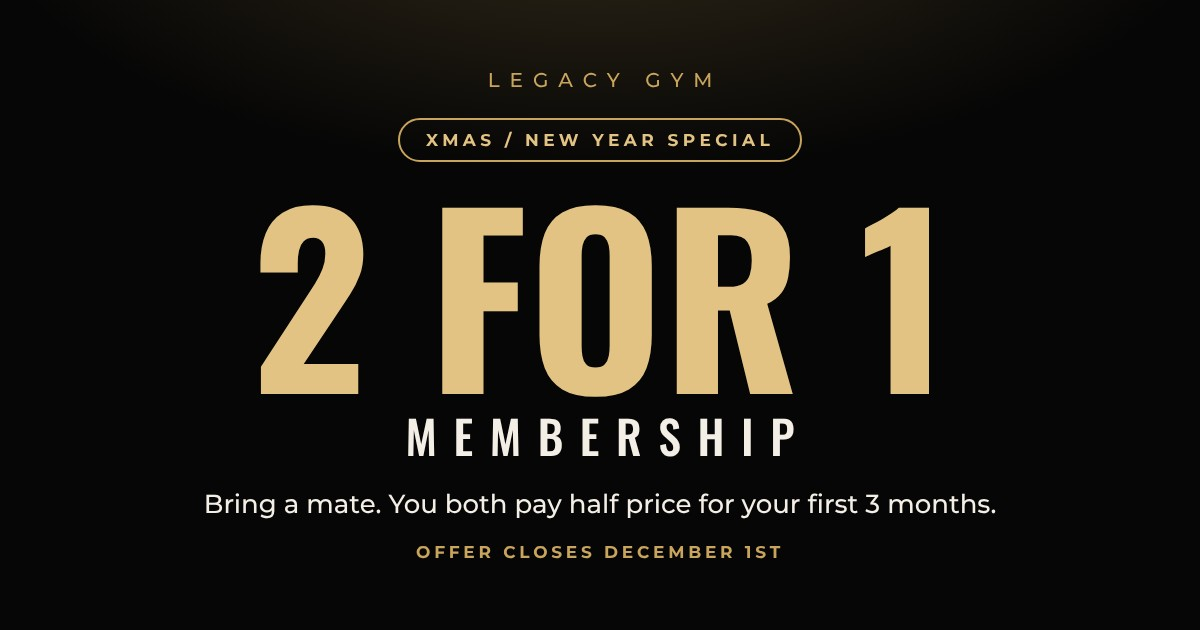
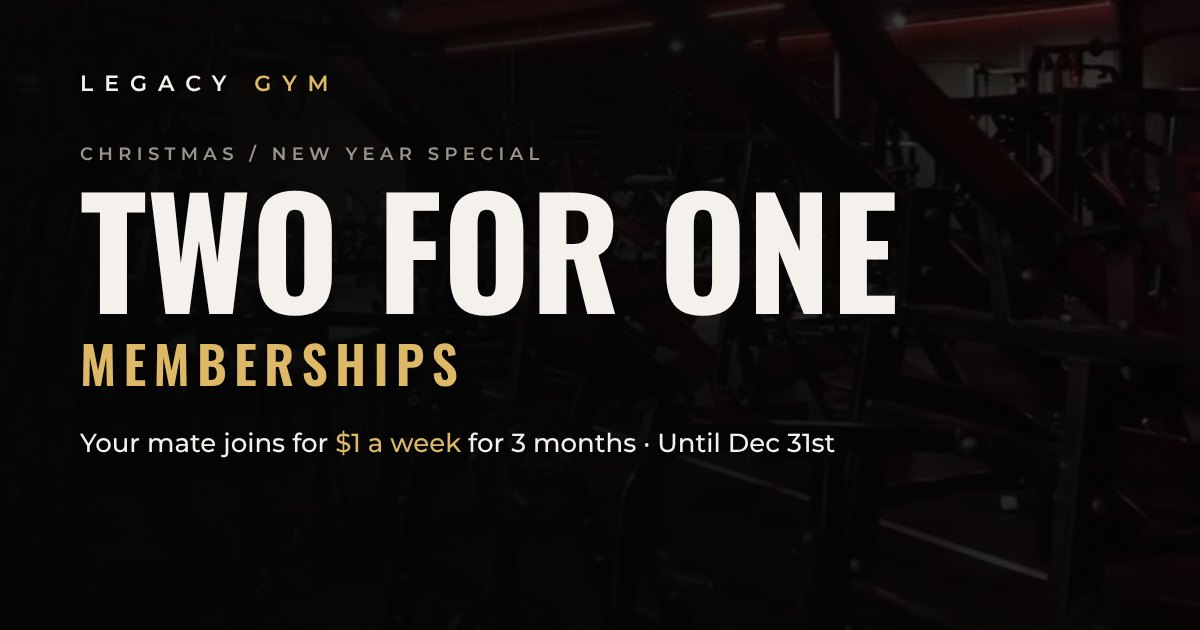
2 for 1: Christmas/New Year version, mate $1/wk for 3 months, open to 31 Dec

diff --git a/2for1.html b/2for1.html
@@ -3,11 +3,11 @@
 <head>
 <meta charset="utf-8">
 <meta name="viewport" content="width=device-width,initial-scale=1,viewport-fit=cover">
-<meta name="theme-color" content="#060606">
-<title>2 for 1 Membership · Xmas / New Year special · Legacy Gym</title>
-<meta name="description" content="Bring a mate. You both pay half price for your first 3 months at Legacy Gym Kincumber. Offer closes December 1st.">
-<meta property="og:title" content="2 for 1 Membership · Xmas / New Year special">
-<meta property="og:description" content="Bring a mate. You both pay half price for your first 3 months at Legacy Gym Kincumber. Offer closes December 1st.">
+<meta name="theme-color" content="#050505">
+<title>2 for 1 Memberships · Christmas / New Year special · Legacy Gym</title>
+<meta name="description" content="Two for one memberships at Legacy Gym Kincumber. Any membership of your choice. Your mate joins on the same one for $1 a week for their first 3 months. Available until December 31st.">
+<meta property="og:title" content="2 for 1 Memberships · Legacy Gym">
+<meta property="og:description" content="Any membership of your choice. Your mate joins for $1 a week for their first 3 months. Available until December 31st.">
 <meta property="og:image" content="https://legacygym-app.vercel.app/2for1-og.jpg">
 <meta property="og:type" content="website">
 <meta name="twitter:card" content="summary_large_image">
@@ -15,124 +15,177 @@
 <link rel="preconnect" href="https://fonts.googleapis.com"><link rel="preconnect" href="https://fonts.gstatic.com" crossorigin>
 <link rel="stylesheet" href="https://fonts.googleapis.com/css2?family=Montserrat:wght@400;500;600;700&family=Oswald:wght@500;600;700&display=swap">
 <style>
-:root{--bg:#060606;--p:#0f0f10;--p2:#161617;--l:#242426;--l2:#37373a;--fg:#f4efe6;--mid:#cfc8bb;--m:#948e83;--gold:#c9a45c;--gold2:#e2c383;
+:root{--bg:#050505;--ink:#f4f1ec;--mid:#c9c4bb;--m:#8a857d;--l:#1f1f1f;--l2:#2e2e2e;--gold:#c9a24f;--gold2:#dcb867;
 --disp:'Oswald','Arial Narrow',Impact,sans-serif;--body:'Montserrat',system-ui,-apple-system,'Segoe UI',sans-serif;color-scheme:dark}
 *{box-sizing:border-box}
 html{background:var(--bg)}
-body{margin:0;background:radial-gradient(720px 360px at 50% -110px,rgba(201,164,92,.17),transparent 70%),var(--bg);color:var(--mid);font-family:var(--body);font-size:15px;line-height:1.55;-webkit-font-smoothing:antialiased;overflow-x:hidden}
+body{margin:0;background:var(--bg);color:var(--mid);font-family:var(--body);font-size:15px;line-height:1.6;-webkit-font-smoothing:antialiased;overflow-x:hidden}
 button,input{font:inherit;color:inherit}
 button{cursor:pointer;-webkit-tap-highlight-color:transparent}
 a{color:inherit}
-:focus-visible{outline:2px solid var(--gold2);outline-offset:2px}
-h1,h2,h3{font-family:var(--disp);color:var(--fg);text-transform:uppercase;margin:0;line-height:1;letter-spacing:.02em;font-weight:600;text-wrap:balance}
-.wrap{max-width:600px;margin:0 auto;padding:max(22px,env(safe-area-inset-top)) max(16px,env(safe-area-inset-right)) 48px max(16px,env(safe-area-inset-left))}
-.brand{text-align:center;font-weight:500;font-size:13px;letter-spacing:.46em;text-transform:uppercase;color:var(--gold);padding-left:.46em}
-.hero{text-align:center;padding:30px 0 0}
-.special{display:inline-block;border:1px solid var(--gold);border-radius:99px;padding:7px 16px;font-size:11.5px;font-weight:700;letter-spacing:.24em;text-transform:uppercase;color:var(--gold2)}
-.hero h1{font-size:clamp(92px,27vw,164px);font-weight:700;line-height:.86;margin-top:20px;color:var(--gold2);letter-spacing:0}
-.hero h1 small{display:block;font-size:.2em;letter-spacing:.34em;color:var(--fg);font-weight:500;margin-top:.5em;padding-left:.34em}
-.lede{font-size:clamp(16px,4.2vw,19px);color:var(--fg);max-width:24em;margin:22px auto 0;text-wrap:balance}
-.cta{display:inline-block;border:0;border-radius:12px;background:linear-gradient(180deg,var(--gold2),var(--gold));color:#17130a;font-family:var(--disp);font-weight:600;font-size:19px;letter-spacing:.08em;text-transform:uppercase;padding:15px 32px;margin-top:24px;min-height:54px}
-.cta[disabled]{opacity:.6;cursor:default}
-.closes{margin-top:16px;font-size:12px;font-weight:700;letter-spacing:.2em;text-transform:uppercase;color:var(--fg)}
-.closes span{display:block;color:var(--gold2);margin-top:5px}
-.sec{margin-top:52px}
-.sec h2{font-size:clamp(26px,6.6vw,34px)}
-.sec>p{margin:8px 0 0}
-.how{list-style:none;margin:20px 0 0;padding:0;display:grid;gap:12px;counter-reset:s}
-.how li{display:grid;grid-template-columns:auto 1fr;gap:12px;align-items:baseline;font-size:15px}
-.how li::before{counter-increment:s;content:counter(s);font-family:var(--disp);font-weight:600;font-size:20px;line-height:1;color:var(--gold2);width:14px}
-.how b{color:var(--fg)}
-.prices{display:grid;gap:8px;margin-top:16px}
-.price{display:grid;grid-template-columns:1fr auto;gap:14px;align-items:center;background:var(--p);border:1px solid var(--l);border-radius:12px;padding:12px 14px}
-.price b{display:block;font-size:14px;color:var(--fg);line-height:1.25}
-.price small{display:block;font-size:11.5px;line-height:1.4;color:var(--m);margin-top:3px}
-.price .pr{text-align:right;font-family:var(--disp);font-weight:600;font-size:24px;color:var(--gold2);line-height:1;font-variant-numeric:tabular-nums;white-space:nowrap}
-.price .pr small{font:600 10.5px var(--body);margin-top:4px}
-.card{background:var(--p);border:1px solid var(--l2);border-radius:18px;padding:18px;margin-top:18px}
-.who{font-family:var(--disp);font-weight:600;font-size:17px;letter-spacing:.06em;text-transform:uppercase;color:var(--fg)}
+:focus-visible{outline:2px solid var(--gold2);outline-offset:3px}
+h1,h2{font-family:var(--disp);color:var(--ink);text-transform:uppercase;margin:0;line-height:.95;font-weight:700;letter-spacing:.01em;text-wrap:balance}
+.lbl{font-size:11px;font-weight:600;letter-spacing:.32em;text-transform:uppercase;color:var(--m)}
+.gold{color:var(--gold2)}
+.wrap{max-width:560px;margin:0 auto;padding:0 max(20px,env(safe-area-inset-right)) 56px max(20px,env(safe-area-inset-left))}
+
+/* hero */
+.hero{position:relative;text-align:center;padding:max(26px,env(safe-area-inset-top)) 20px 44px;overflow:hidden;isolation:isolate}
+.hero::before{content:"";position:absolute;inset:0;z-index:-2;background:url("/img/2for1/hero.jpg") center 62%/cover no-repeat;opacity:.5}
+.hero::after{content:"";position:absolute;inset:0;z-index:-1;background:linear-gradient(180deg,rgba(5,5,5,.92) 0%,rgba(5,5,5,.45) 38%,rgba(5,5,5,.7) 70%,var(--bg) 100%)}
+.brand{font-weight:600;font-size:13px;letter-spacing:.5em;padding-left:.5em;color:var(--ink)}
+.brand span{color:var(--gold2)}
+.eyebrow{margin-top:44px}
+.hero h1{font-size:clamp(68px,21vw,124px);margin-top:14px;line-height:.86}
+.hero h1 small{display:block;font-size:.34em;letter-spacing:.14em;padding-left:.14em;color:var(--gold2);font-weight:600;margin-top:.28em}
+.lede{font-size:clamp(16px,4.3vw,19px);line-height:1.5;color:var(--ink);max-width:23em;margin:22px auto 0;text-wrap:balance}
+.cta{display:inline-flex;align-items:center;justify-content:center;border:0;border-radius:4px;background:var(--gold2);color:#120f08;font-family:var(--disp);font-weight:600;font-size:18px;letter-spacing:.14em;text-transform:uppercase;padding:15px 34px;min-height:54px;text-decoration:none}
+.cta:hover{background:#e6c57a}
+.cta[disabled]{opacity:.55;cursor:default}
+.hero .cta{margin-top:28px}
+.until{margin-top:16px}
+.until b{display:block;font-weight:600;color:var(--gold2);letter-spacing:.28em;margin-top:6px}
+
+/* sections */
+.sec{margin-top:56px}
+.sec h2{font-size:clamp(28px,7.4vw,38px)}
+.sec .lbl{display:block;margin-bottom:10px}
+.steps{list-style:none;margin:18px 0 0;padding:0;counter-reset:s}
+.steps li{display:grid;grid-template-columns:44px 1fr;gap:4px;padding:18px 0;border-top:1px solid var(--l)}
+.steps li:last-child{border-bottom:1px solid var(--l)}
+.steps li::before{counter-increment:s;content:"0" counter(s);font-family:var(--disp);font-weight:600;font-size:22px;line-height:1.1;color:var(--gold2)}
+.steps b{display:block;font-family:var(--disp);font-weight:600;font-size:19px;letter-spacing:.03em;text-transform:uppercase;color:var(--ink);line-height:1.2;margin-bottom:4px}
+
+.plans{margin-top:18px;border-top:1px solid var(--l)}
+.plan{display:grid;grid-template-columns:1fr auto;gap:4px 16px;align-items:baseline;width:100%;text-align:left;background:none;border:0;border-bottom:1px solid var(--l);padding:18px 4px 18px 0}
+.plan .n{font-family:var(--disp);font-weight:600;font-size:21px;letter-spacing:.02em;text-transform:uppercase;color:var(--ink);line-height:1.15}
+.plan .p{font-family:var(--disp);font-weight:600;font-size:21px;color:var(--ink);white-space:nowrap;font-variant-numeric:tabular-nums;text-align:right}
+.plan .d{font-size:13px;color:var(--m);line-height:1.45}
+.plan .m{font-size:12.5px;color:var(--mid);text-align:right;white-space:nowrap}
+.plan .s{grid-column:1/-1;margin-top:6px;font-size:11.5px;font-weight:700;letter-spacing:.2em;text-transform:uppercase;color:var(--gold2)}
+button.plan{cursor:pointer;padding-left:14px;border-left:3px solid transparent;transition:background .15s}
+button.plan:hover{background:#0c0c0c}
+button.plan.on{border-left-color:var(--gold2);background:#0e0d0a}
+
+/* form */
+.form{margin-top:8px}
+.who{font-family:var(--disp);font-weight:600;font-size:19px;letter-spacing:.06em;text-transform:uppercase;color:var(--ink);margin-top:30px}
 .g2{display:grid;grid-template-columns:1fr 1fr;gap:0 12px}
-label.f,.f{display:block;font-size:10.5px;font-weight:700;letter-spacing:.18em;text-transform:uppercase;color:var(--m);margin:12px 0 5px}
-.card input{width:100%;background:var(--bg);border:1px solid var(--l2);border-radius:12px;padding:12px 13px;font-size:16px;color:var(--fg);min-height:48px}
+label.f,.f{display:block;font-size:10.5px;font-weight:600;letter-spacing:.24em;text-transform:uppercase;color:var(--m);margin:14px 0 6px}
+.form input{width:100%;background:#0b0b0b;border:1px solid var(--l2);border-radius:4px;padding:12px 13px;font-size:16px;color:var(--ink);min-height:48px}
+.form input:focus{border-color:var(--gold)}
 .age{display:grid;grid-template-columns:1fr 1fr;gap:8px}
-.age button{background:var(--bg);border:1px solid var(--l2);border-radius:12px;min-height:48px;font-weight:700;font-size:15px;color:var(--mid)}
-.age button.on{border-color:var(--gold);background:var(--gold);color:#17130a}
-.rule{border:0;border-top:1px solid var(--l);margin:22px 0 18px}
-.card .cta{width:100%;margin-top:20px}
-.err{color:#ff8f8f;font-size:14px;font-weight:600;margin-top:10px}
+.age button{background:#0b0b0b;border:1px solid var(--l2);border-radius:4px;min-height:48px;font-weight:600;letter-spacing:.08em;color:var(--mid)}
+.age button.on{border-color:var(--gold2);background:var(--gold2);color:#120f08}
+.picked{margin-top:30px;padding:16px 0;border-top:1px solid var(--l);border-bottom:1px solid var(--l);display:grid;grid-template-columns:1fr auto;gap:4px 12px;align-items:baseline}
+.picked .n{font-family:var(--disp);font-weight:600;font-size:19px;text-transform:uppercase;color:var(--ink)}
+.picked .x{font-size:12px;color:var(--gold2);background:none;border:0;letter-spacing:.16em;text-transform:uppercase;font-weight:600;padding:0}
+.picked small{grid-column:1/-1;color:var(--m);font-size:13px}
+.form .cta{width:100%;margin-top:26px}
+.err{color:#ff9a8f;font-size:14px;font-weight:600;margin-top:12px}
 .err:empty{display:none}
-.done{text-align:center;padding:14px 4px}
-.done .tick{width:64px;height:64px;border-radius:50%;margin:0 auto 14px;display:grid;place-items:center;font-size:28px;color:#17130a;background:linear-gradient(180deg,var(--gold2),var(--gold))}
-.done h3{font-size:30px}
-.fine{margin:22px 0 0;padding:0 2px;font-size:12.5px;color:var(--m)}
-.foot{margin-top:40px;padding-top:18px;border-top:1px solid var(--l);font-size:12px;color:var(--m);text-align:center}
+.done{padding:6px 0 0}
+.done h2{font-size:clamp(30px,8vw,40px)}
+.done ol{list-style:none;margin:18px 0 0;padding:0}
+.done li{padding:16px 0;border-top:1px solid var(--l)}
+.done li:last-child{border-bottom:1px solid var(--l)}
+.done li b{display:block;font-family:var(--disp);font-weight:600;font-size:18px;text-transform:uppercase;color:var(--ink);letter-spacing:.03em}
+.done .cta{width:100%;margin-top:22px}
+.fine{margin:30px 0 0;font-size:12.5px;line-height:1.6;color:var(--m)}
+.foot{margin-top:44px;padding-top:20px;border-top:1px solid var(--l);text-align:center}
+.foot .brand{font-size:11px}
+.foot p{margin:8px 0 0;font-size:12px;color:var(--m)}
+
 @media (max-width:420px){.g2{grid-template-columns:1fr}}
 @media (prefers-reduced-motion:reduce){*{transition:none!important;scroll-behavior:auto!important}}
 </style>
 </head>
 <body>
-<div class="wrap" id="view"></div>
-<noscript><div class="wrap"><p>2 for 1 Membership at Legacy Gym Kincumber. Call in to the gym to sign up.</p></div></noscript>
+<div id="view"></div>
+<noscript><div class="wrap"><p>2 for 1 Memberships at Legacy Gym Kincumber. Call in to the gym to sign up.</p></div></noscript>
 <script>
 (()=>{
+const DEMO=false;
 const $=s=>document.querySelector(s);
 const E=s=>String(s??'').replace(/[&<>"']/g,c=>({'&':'&amp;','<':'&lt;','>':'&gt;','"':'&quot;',"'":'&#39;'}[c]));
 const money=n=>{n=Math.round(n*100)/100;return '$'+n.toLocaleString('en-AU',{minimumFractionDigits:n%1?2:0,maximumFractionDigits:2})};
 const SB='https://jyslqxepodrseyhoppce.supabase.co',KEY='sb_publishable_otcHJ5LC4yf-69CAoZghZA_yk_8h_we';
-/* weekly prices from legacygym.net; half price for the first 3 months */
-const PLANS=[{n:'Gym Membership',d:'Unlimited swipe pass access to the entire gym',p:19.99,h:9.99},{n:'Gym + S&C',d:'S&C classes plus swipe pass access to the gym',p:45,h:22.5},{n:'Unlimited Classes + Gym',d:'Unlimited classes plus unlimited swipe pass access to the gym',p:55,h:27.5},{n:'Classes + Sparring + Gym',d:'Unlimited sparring plus classes plus swipe pass access to the gym',p:65,h:32.5}];
-const CLOSE='2026-12-01';
-function daysLeft(){let t;try{t=new Date().toLocaleDateString('en-CA',{timeZone:'Australia/Sydney'})}catch(e){t=new Date().toISOString().slice(0,10)}return Math.round((Date.parse(CLOSE)-Date.parse(t))/864e5)}
-const U={done:null,f:{},over18:null,busy:false};
+const DS='https://oc.debitsuccess.com/DirectEntry/DirectDebitRequest/Form?templateid=';
+/* weekly prices and DebitSuccess join forms from legacygym.net */
+const PLANS=[
+ {id:'gym',n:'Gym Membership',d:'Unlimited swipe pass access to the whole gym.',p:19.99,t:'5b74ba91-75aa-4402-80c0-95e23a699b4b'},
+ {id:'snc',n:'Gym + S&C',d:'Grunt S&C classes plus swipe pass access to the gym.',p:45,t:'0d2c0a1c-430f-4b05-a6ff-b886063c63dd'},
+ {id:'classes',n:'Unlimited Classes + Gym',d:'Every boxing and S&C class, plus the gym.',p:55,t:'9646131e-a07f-4f53-868c-542e463c8b2a'},
+ {id:'spar',n:'Classes + Sparring + Gym',d:'Everything, plus sparring.',p:65,t:'0a0f1460-273e-4622-bdb2-79ffba02a95f'}];
+const WEEKS=13,MATE=1,saves=p=>(p-MATE)*WEEKS;
+const CLOSE='2026-12-31';
+function today(){try{return new Date().toLocaleDateString('en-CA',{timeZone:'Australia/Sydney'})}catch(e){return new Date().toISOString().slice(0,10)}}
+function daysLeft(){return Math.round((Date.parse(CLOSE)-Date.parse(today()))/864e5)}
+const U={done:null,f:{},over18:null,plan:null,busy:false};
 function keep(){['a1','a2','a3','b1','b2'].forEach(k=>{const i=$('#'+k);if(i)U.f[k]=i.value})}
 async function rpc(fn,args){const r=await fetch(SB+'/rest/v1/rpc/'+fn,{method:'POST',headers:{apikey:KEY,Authorization:'Bearer '+KEY,'content-type':'application/json'},body:JSON.stringify(args||{})});const j=await r.json().catch(()=>null);if(!r.ok)throw new Error((j&&j.message)||'failed');return j}
 
+function planRows(pick){return PLANS.map((x,i)=>{const inner=`<span class="n">${E(x.n)}</span><span class="p">${money(x.p)}<span style="font-size:.6em;color:var(--m)"> /wk</span></span>
+  <span class="d">${E(x.d)}</span><span class="m">Your mate $1/wk</span>
+  <span class="s">You guys save ${money(saves(x.p))}</span>`;
+ return pick?`<button type="button" class="plan${U.plan===i?' on':''}" data-a="plan" data-v="${i}" aria-pressed="${U.plan===i}">${inner}</button>`:`<div class="plan">${inner}</div>`}).join('')}
+
+function formHtml(){const P=PLANS[U.plan];
+ if(U.plan===null)return `<span class="lbl">Step 1</span><h2>Pick your membership</h2><p style="margin:10px 0 0">Your mate goes on the same one.</p><div class="plans">${planRows(true)}</div>`;
+ return `<span class="lbl">Step 2</span><h2>Your details</h2>
+ <div class="picked"><span class="n">${E(P.n)}</span><button type="button" class="x" data-a="change">Change</button><small>You ${money(P.p)} a week. Your mate $1 a week for 3 months. You guys save ${money(saves(P.p))}.</small></div>
+ <form class="form" id="f" novalidate>
+  <div class="who">You</div>
+  <label class="f" for="a1">Full name</label><input id="a1" type="text" autocomplete="name" maxlength="80" value="${E(U.f.a1||'')}">
+  <div class="g2"><div><label class="f" for="a2">Mobile</label><input id="a2" type="tel" inputmode="tel" autocomplete="tel" maxlength="20" value="${E(U.f.a2||'')}"></div>
+  <div><label class="f" for="a3">Email</label><input id="a3" type="email" inputmode="email" autocomplete="email" maxlength="120" value="${E(U.f.a3||'')}"></div></div>
+  <div class="f" id="ageL">Are you both over 18?</div>
+  <div class="age" role="group" aria-labelledby="ageL"><button type="button" data-a="age" data-v="yes" class="${U.over18===true?'on':''}" aria-pressed="${U.over18===true}">Yes</button><button type="button" data-a="age" data-v="no" class="${U.over18===false?'on':''}" aria-pressed="${U.over18===false}">No</button></div>
+  <div class="who">Your mate</div>
+  <div class="g2"><div><label class="f" for="b1">Their name</label><input id="b1" type="text" maxlength="80" autocomplete="off" value="${E(U.f.b1||'')}"></div>
+  <div><label class="f" for="b2">Their mobile</label><input id="b2" type="tel" inputmode="tel" maxlength="20" autocomplete="off" value="${E(U.f.b2||'')}"></div></div>
+  <button class="cta" id="send">Continue to sign up</button><div class="err" id="err" role="alert">${U.over18===false?MSG.under18:''}</div>
+ </form>`}
+
+function doneHtml(){const d=U.done,P=PLANS[d.i];
+ return `<span class="lbl">Step 3</span><h2>Sign up now, ${E(d.a)}</h2>
+ <ol>
+  <li><b>You: sign up today</b>Your ${E(P.n)} membership at ${money(P.p)} a week. It takes a couple of minutes.</li>
+  <li><b>Then ${E(d.b)} comes in</b>Once your membership is through, we'll text you both to book ${E(d.b)} in to sign their $1 a week agreement at the gym.</li>
+ </ol>
+ <a class="cta" href="${DS+P.t}" target="_blank" rel="noopener">Sign up for ${E(P.n)}</a>
+ ${DEMO?'<p class="fine" style="margin-top:12px">Demo: your details were not saved.</p>':''}`}
+
 function page(){const d=daysLeft(),open=d>=0;
  const left=d>1?d+' days left':d===1?'1 day left':d===0?'Last day today':'';
- return `<div class="brand">Legacy Gym</div>
+ return `${DEMO?'<div class="demo">Demo. Nothing on this page is saved.</div>':''}
  <header class="hero">
-  <div class="special">Xmas / New Year special</div>
-  <h1>2 for 1<small>Membership</small></h1>
-  <p class="lede">Bring a mate. You both pay half price for your first 3 months.</p>
-  ${open?`<button class="cta" data-a="go">Claim 2 for 1</button>
-  <div class="closes">Offer closes December 1st${left?`<span>${left}</span>`:''}</div>`:`<div class="closes" style="margin-top:26px">This offer closed on December 1st</div>`}
+  <div class="brand">LEGACY <span>GYM</span></div>
+  <div class="lbl eyebrow">Christmas / New Year special</div>
+  <h1>Two for one<small>Memberships</small></h1>
+  <p class="lede">Any membership of your choice. Your mate joins on the same one for <span class="gold">$1 a week</span> for their first 3 months.</p>
+  ${open?`<button class="cta" data-a="go">Claim 2 for 1</button><div class="lbl until">Available until December 31st${left?`<b>${left}</b>`:''}</div>`:`<div class="lbl until" style="margin-top:26px">This offer closed on December 31st</div>`}
  </header>
-
- <section class="sec"><h2>How it works</h2>
-  <ol class="how">
-   <li><span><b>Put both names down.</b> Fill in the form below.</span></li>
-   <li><span><b>We contact you.</b> Then you and your friend come into the gym and we sign you both up.</span></li>
-   <li><span><b>Half price each for 3 months.</b> Then you both move to the normal price for 9 months.</span></li>
+ <main class="wrap">
+ <section class="sec" style="margin-top:20px"><span class="lbl">How it works</span><h2>One signs up today.<br><span class="gold">Your mate pays $1.</span></h2>
+  <ol class="steps">
+   <li><span><b>You sign up today</b>Pick your membership, sign up online and put your mate's name down.</span></li>
+   <li><span><b>Your mate comes in</b>Once your membership is locked in and through, your mate comes into the gym and signs their $1 a week agreement. That covers their first 3 months.</span></li>
+   <li><span><b>Then the normal price</b>After 3 months your mate moves to the normal price for the same membership, on the same agreement. No new paperwork.</span></li>
   </ol>
  </section>
+ ${open?`<section class="sec" id="join">${U.done?doneHtml():formHtml()}</section>`:`<section class="sec"><span class="lbl">Memberships</span><h2>What you pay</h2><div class="plans">${planRows(false)}</div><p style="margin-top:16px">Head to <a href="https://www.legacygym.net/pages/memberships">legacygym.net</a> for current memberships.</p></section>`}
+ <p class="fine">Christmas / New Year 2 for 1. For two people on the same membership. The first member signs up at the normal weekly price for their membership. Their mate then signs a 12-month agreement at the gym: $1 a week for the first 13 weeks, then the normal weekly price for the same membership for the remaining 39 weeks, on the same agreement. "You guys save" is the saving on your mate's first 13 weeks. Both members must be 18 or over. Open to new and returning members. Available until December 31st, 2026.</p>
+ <footer class="foot"><div class="brand">LEGACY <span>GYM</span></div><p>12 Bilinga Road, Kincumber NSW 2251 · <a href="https://www.legacygym.net">legacygym.net</a></p></footer>
+ </main>`}
 
- <section class="sec"><h2>What you pay</h2><p>Weekly price each for your first 3 months, on any membership.</p>
-  <div class="prices">${PLANS.map(x=>`<div class="price"><div><b>${E(x.n)}</b><small>${E(x.d)}</small></div><div class="pr">${money(x.h)}<small>then ${money(x.p)} a week</small></div></div>`).join('')}</div>
- </section>
-
- <section class="sec" id="join"><h2>Claim your 2 for 1</h2>
-  <div class="card">${!open?`<div class="done"><h3>Offer closed</h3><p style="margin:10px auto 0;max-width:34ch">The Xmas / New Year 2 for 1 closed on December 1st. Head to <a href="https://www.legacygym.net/pages/memberships">legacygym.net</a> for current memberships.</p></div>`
-  :U.done?`<div class="done"><div class="tick">✓</div><h3>You're on the list</h3><p style="margin:10px auto 0;max-width:34ch">Thanks ${E(U.done.a)}. We will be in touch to get you and ${E(U.done.b)} into the gym and signed up.</p></div>`
-  :`<form id="f" novalidate>
-   <div class="who">Your details</div>
-   <label class="f" for="a1">Full name</label><input id="a1" type="text" autocomplete="name" maxlength="80" value="${E(U.f.a1||'')}">
-   <div class="g2"><div><label class="f" for="a2">Mobile</label><input id="a2" type="tel" inputmode="tel" autocomplete="tel" maxlength="20" value="${E(U.f.a2||'')}"></div>
-   <div><label class="f" for="a3">Email</label><input id="a3" type="email" inputmode="email" autocomplete="email" maxlength="120" value="${E(U.f.a3||'')}"></div></div>
-   <div class="f" id="ageL">Are you over 18?</div>
-   <div class="age" role="group" aria-labelledby="ageL"><button type="button" data-a="age" data-v="yes" class="${U.over18===true?'on':''}" aria-pressed="${U.over18===true}">Yes</button><button type="button" data-a="age" data-v="no" class="${U.over18===false?'on':''}" aria-pressed="${U.over18===false}">No</button></div>
-   <hr class="rule">
-   <div class="who">Your friend</div>
-   <div class="g2"><div><label class="f" for="b1">Their name</label><input id="b1" type="text" maxlength="80" autocomplete="off" value="${E(U.f.b1||'')}"></div>
-   <div><label class="f" for="b2">Their mobile</label><input id="b2" type="tel" inputmode="tel" maxlength="20" autocomplete="off" value="${E(U.f.b2||'')}"></div></div>
-   <button class="cta" id="send">Claim 2 for 1</button><div class="err" id="err" role="alert">${U.over18===false?MSG.under18:''}</div></form>`}</div>
-  <p class="fine">For two people joining together on the same 12-month membership. Each member pays half the normal weekly price for the first 3 months, then the normal weekly price for the next 9 months. Both members must be 18 or over. Sign-up is done in the gym. Open to new and returning members. Offer closes December 1st.</p>
- </section>
- <footer class="foot">Legacy Gym · Kincumber · <a href="https://www.legacygym.net">legacygym.net</a></footer>`}
-
-const MSG={name:'Please enter your full name.',mobile:'Please enter your mobile number.',email:'Please enter a valid email.',age:"Please tell us if you're over 18.",under18:'Sorry, the 2 for 1 special is for over 18s only.',friend_name:"Please enter your friend's name.",friend_mobile:"Please enter your friend's mobile.",same:'2 for 1 needs two different people.',closed:'Sorry, this offer has closed.',busy:'We are getting a lot of sign-ups right now. Please try again in a few minutes.'};
+const MSG={name:'Please enter your full name.',mobile:'Please enter your mobile number.',email:'Please enter a valid email.',age:'Please tell us if you are both over 18.',under18:'Sorry, the 2 for 1 special is for over 18s only.',friend_name:"Please enter your mate's name.",friend_mobile:"Please enter your mate's mobile.",same:'2 for 1 needs two different people.',closed:'Sorry, this offer has closed.',plan:'Please pick a membership.',busy:'We are getting a lot of sign-ups right now. Please try again in a few minutes.'};
 function render(){const y=scrollY;$('#view').innerHTML=page();scrollTo(0,y)}
+function toJoin(){const j=$('#join');if(j)j.scrollIntoView({behavior:'smooth',block:'start'})}
 document.addEventListener('click',e=>{const b=e.target.closest('[data-a]');if(!b)return;const a=b.dataset.a;
- if(a==='go'){$('#join').scrollIntoView({behavior:'smooth',block:'start'})}
+ if(a==='go')toJoin();
+ else if(a==='plan'){U.plan=+b.dataset.v;render();toJoin()}
+ else if(a==='change'){keep();U.plan=null;render();toJoin()}
  else if(a==='age'){keep();U.over18=b.dataset.v==='yes';render()}
 });
 document.addEventListener('submit',async e=>{e.preventDefault();if(e.target.id!=='f'||U.busy)return;keep();const f=U.f,err=$('#err'),btn=$('#send');
@@ -146,12 +199,14 @@ document.addEventListener('submit',async e=>{e.preventDefault();if(e.target.id!=
  if(!nm(f.b1)){err.textContent=MSG.friend_name;return}
  if(!mob(f.b2)){err.textContent=MSG.friend_mobile;return}
  if(f.a1.trim().toLowerCase()===f.b1.trim().toLowerCase()||f.a2.replace(/\D/g,'')===f.b2.replace(/\D/g,'')){err.textContent=MSG.same;return}
- U.busy=true;btn.disabled=true;btn.textContent='Sending…';
- try{const r=await rpc('tfo_register',{p_name:f.a1.trim(),p_mobile:f.a2.trim(),p_email:f.a3.trim(),p_over18:true,p_friend_name:f.b1.trim(),p_friend_mobile:f.b2.trim()});
-  if(r&&r.ok){U.done={a:f.a1.trim().split(' ')[0],b:f.b1.trim().split(' ')[0]};U.f={};U.busy=false;render();$('#join').scrollIntoView({block:'start'});return}
+ U.busy=true;btn.disabled=true;btn.textContent='One moment…';
+ const ok=()=>{U.done={a:f.a1.trim().split(' ')[0],b:f.b1.trim().split(' ')[0],i:U.plan};U.f={};U.busy=false;render();toJoin()};
+ if(DEMO){setTimeout(ok,400);return}
+ try{const r=await rpc('tfo_join',{p_plan:PLANS[U.plan].id,p_name:f.a1.trim(),p_mobile:f.a2.trim(),p_email:f.a3.trim(),p_over18:true,p_friend_name:f.b1.trim(),p_friend_mobile:f.b2.trim()});
+  if(r&&r.ok){ok();return}
   err.textContent=MSG[r&&r.error]||'That did not go through. Please try again.';
  }catch(x){err.textContent='Could not send. Check your signal and try again.'}
- U.busy=false;btn.disabled=false;btn.textContent='Claim 2 for 1';
+ U.busy=false;btn.disabled=false;btn.textContent='Continue to sign up';
 });
 render();
 })();

diff --git a/twofor1.js b/twofor1.js
@@ -46,14 +46,14 @@ function paint(){
   function tab(k,l){return '<button class="'+(f===k?"on":"")+'" onclick="tfF(\''+k+'\')">'+l+(c[k]?' '+c[k]:'')+'</button>';}
   var m=document.getElementById("main");if(!m)return;
   m.innerHTML='<div class="rtcPage tfPage"><button class="backBtn" onclick="go(\'home\')">‹ Home</button>'+
-   '<div class="tfHead"><div class="k">Xmas / New Year special · closes 1 Dec</div><h2>2 for 1 sign-ups</h2><div class="w">'+c.all+' pair'+(c.all===1?'':'s')+' registered · '+c.new+' to contact · <a href="#" onclick="tfReload();return false">refresh</a></div>'+
+   '<div class="tfHead"><div class="k">Christmas / New Year special · until 31 Dec</div><h2>2 for 1 sign-ups</h2><div class="w">'+c.all+' pair'+(c.all===1?'':'s')+' registered · '+c.new+' to contact · <a href="#" onclick="tfReload();return false">refresh</a></div>'+
    '<div class="do"><b>What to do:</b> contact the person, book them and their friend in, and sign them both up at the gym. Tap <b>Contacted</b> once you have reached them so nobody doubles up.</div></div>'+
    '<div class="tfTabs">'+tab("new","New")+tab("contacted","Contacted")+tab("signed","Signed up")+tab("all","All")+'</div>'+
    (TF.leads===null?'<div class="card"><p>Loading…</p></div>':list.length?list.map(function(x){var s=x.status;
      return '<div class="rtcLead '+(s==="new"?"new":"")+'"><div class="top"><div><div class="nm">'+E(x.a_name)+' + '+E(x.b_name)+'</div><div class="meta">'+ago(x.created_at)+' · '+new Date(x.created_at).toLocaleString("en-AU",{weekday:"short",day:"numeric",month:"short",hour:"numeric",minute:"2-digit"})+'</div></div></div>'+
      (s==="new"?'<div class="tfNeed">Needs contacting. Nobody has reached them yet.</div>':x.contacted_at?'<div class="tfDone">Contacted '+day(x.contacted_at)+(NAMES[x.contacted_by]?' by '+NAMES[x.contacted_by]:'')+'</div>':'')+
-     '<div class="tfWho">Main contact<b>'+E(x.a_name)+'</b></div>'+ct(x.a_mobile,x.a_email)+
-     '<div class="tfWho">Friend<b>'+E(x.b_name)+'</b></div>'+ct(x.b_mobile,"")+
+     (x.plan?'<div class="tfWho">Membership<b>'+E(x.plan)+(x.full_cents?' · $'+(x.full_cents/100).toFixed(2).replace(/\.00$/,'')+'/wk':'')+'</b></div>':'')+'<div class="tfWho">Signs up today (full price)<b>'+E(x.a_name)+'</b></div>'+ct(x.a_mobile,x.a_email)+
+     '<div class="tfWho">Mate · comes in to sign $1/wk agreement<b>'+E(x.b_name)+'</b></div>'+ct(x.b_mobile,"")+
      '<div class="st"><button class="'+(s==="new"?"on":"")+'" onclick="tfSt(\''+x.id+'\',\'new\')">New</button><button class="'+(s==="contacted"?"on":"")+'" onclick="tfSt(\''+x.id+'\',\'contacted\')">Contacted</button><button class="j '+(s==="signed"?"on":"")+'" onclick="tfSt(\''+x.id+'\',\'signed\')">Signed up</button><button class="x '+(s==="no"?"on":"")+'" onclick="tfSt(\''+x.id+'\',\'no\')">No</button></div>'+
      '<textarea placeholder="Note, e.g. texted, both coming in Tuesday 6pm" onblur="tfNote(\''+x.id+'\',this)">'+E(x.notes||"")+'</textarea></div>';}).join(""):'<div class="card"><p>'+(f==="new"?"Nobody waiting. All caught up.":"Nothing here yet.")+'</p></div>')+
    '<p style="text-align:center;font-size:11px;color:#9a9891;margin:8px 0 0">Jake, Alison, Jerson and Kelly can see this list.</p></div>';

diff --git a/index.html b/index.html
@@ -590,7 +590,7 @@ try{if(/[?&]crew=legacy2/.test(location.search)){localStorage.setItem("lg_crew",
 const MAINTENANCE=(function(){try{if(localStorage.getItem("lg_crew")==="1")return false;}catch(e){}return Date.now()<new Date("2026-11-08T17:00:00+11:00").getTime();})(); /* holding screen until 5pm Sun 8 Nov, then opens on its own; crew bypass above */
 
 /* ===== AUTO-UPDATE (front-end only). Bump LG_BUILD on every deploy. ===== */
-const LG_BUILD="202611221030";
+const LG_BUILD="202611221500";
 (function(){
  var checking=false;
  async function latestBuild(){
@@ -11151,7 +11151,7 @@ try{var _go=window.go;window.go=function(v){if(v==="recoffers")RC2.need=true;if(
 <script src="/lg2.js?v=202611211215"></script>
 <script src="/fnnudge.js?v=202611140824"></script>
 <script src="/hoodie.js?v=202611201605"></script>
-<script src="/twofor1.js?v=202611200920"></script>
+<script src="/twofor1.js?v=202611221500"></script>
 <script src="/mtix.js?v=202611201620"></script>
 <script src="/sfo.js?v=202611202126"></script>
 <script src="/ysp.js?v=202611202330"></script>
